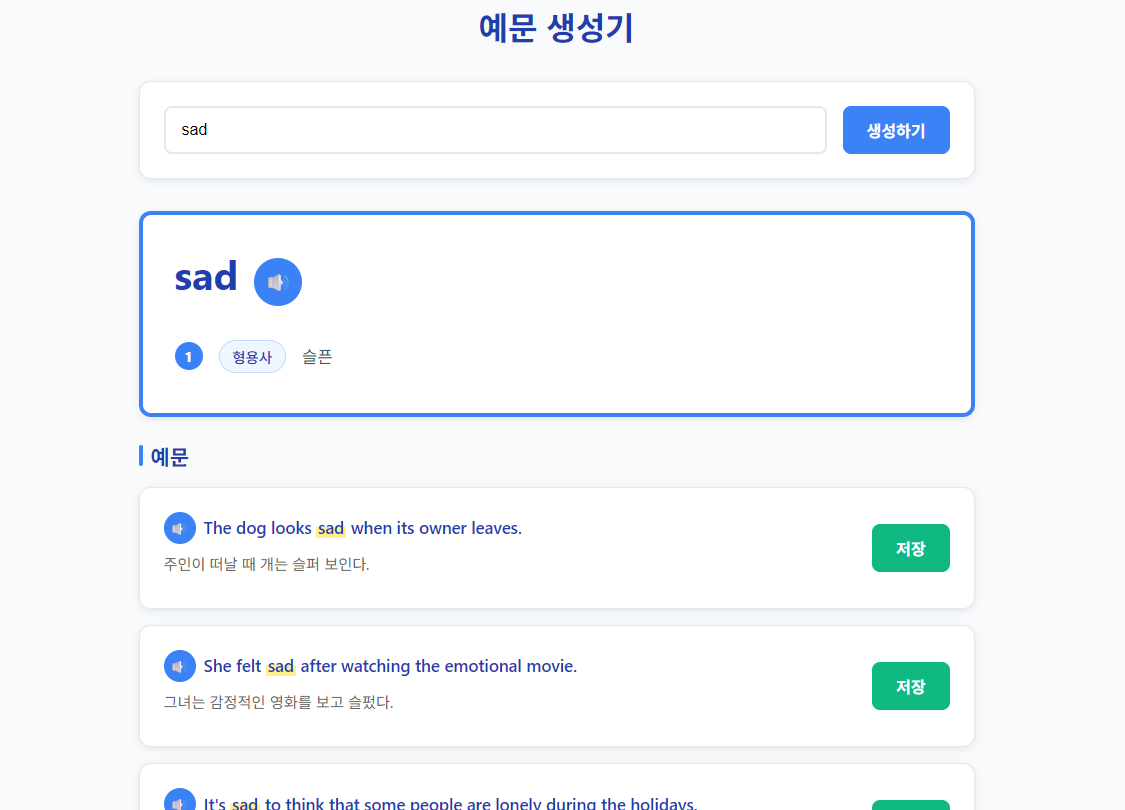
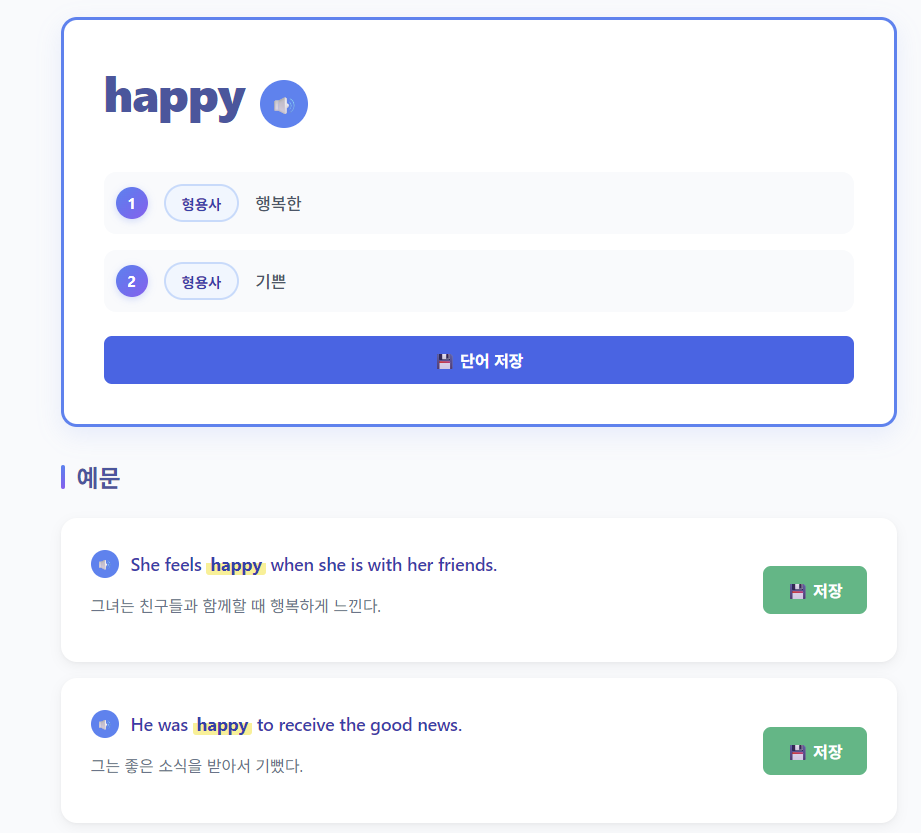
aienglishtrainer 사진 및 동영상 수정

diff --git a/src/data/projects.ts b/src/data/projects.ts
@@ -22,7 +22,7 @@ export const projects: Project[] = [
     title: 'Qureka',
     description: '생성형 AI 기반 교육 콘텐츠 문제 생성기',
     details: ' 강의자료를 업로드하여, 자료의 정보를 요약하고, 이를 바탕으로 문제를 생성해주는 프로그램',
-    role: '프론트엔드(React) 및 백엔드(Node.JS) 및 데이터베이스 관리',
+    role: '프론트엔드(React) 및 백엔드(Node.js) 및 데이터베이스 관리',
     techStack: ['React', 'Node.js', 'FastAPI','Supabase'],
     imageUrls: [  
       '/images/qureka/qureka_1.png',
@@ -62,7 +62,7 @@ export const projects: Project[] = [
     title: '그림나래',
     description: '생성형 AI 기반 동화 생성기',
     details: '그림(PNG, JPG 등)을 업로드 하여, 이와 관련된 동화를 생성해주는 프로그램',
-    role: '프론트엔드(React) 및 백엔드(Node.JS) 및 데이터베이스 관리',
+    role: '프론트엔드(React) 및 백엔드(Node.js) 및 데이터베이스 관리',
     techStack: ['React', 'Node.js','MySQL'],
     imageUrls: [  
       '/images/imagetostory/imagetostory_1.png',
@@ -93,15 +93,19 @@ export const projects: Project[] = [
     description: '생성형 AI 기반 영어 학습 플랫폼',
     details: '예문 생성·토익/영작 문제·단어장 관리를 해주는 프로그램',
     role: '전체 개발(개인 프로젝트)',
-    techStack: ['React', 'Node.js'],
+    techStack: ['React', 'Node.js', 'Spring Boot', 'MySQL'],
     imageUrls: [  
       '/images/aienglishtrainer/aienglishtrainer_1.png',
       '/images/aienglishtrainer/aienglishtrainer_2.png',
       '/images/aienglishtrainer/aienglishtrainer_3.png',
+      '/images/aienglishtrainer/aienglishtrainer_4.png',
+      '/images/aienglishtrainer/aienglishtrainer_5.png',
+      '/images/aienglishtrainer/aienglishtrainer_6.png',
     ],
     githubUrls: [
       { label: 'Frontend', url: 'https://github.com/HeoSeonJin0504/ai-english-trainer-front.git' },
-      { label: 'Backend', url: 'https://github.com/HeoSeonJin0504/ai-english-trainer-node.git' }  
+      { label: 'Backend(Node.js)', url: 'https://github.com/HeoSeonJin0504/ai-english-trainer-node.git' },
+      { label: 'Backend(Spring Boot)', url: 'https://github.com/HeoSeonJin0504/ai-english-trainer-spring.git' }
     ],
     demoUrl: '',
     videoUrl: '/videos/aienglishtrainer.mp4',
@@ -113,7 +117,8 @@ export const projects: Project[] = [
       'AI 기반 맞춤형 예문 생성',
       '토익 유형별 문제 생성 및 채점',
       '영작 문제 생성 및 모범 답안 보기 기능',
-      '단어장 관리',
+      '단어장 및 예문 관리',
+      '문제 관리',
     ],
     apiDesign: '',
     apiImageUrl: '',
